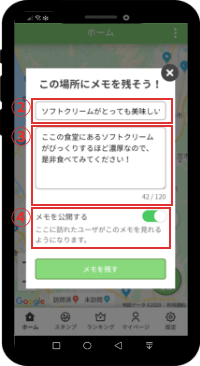
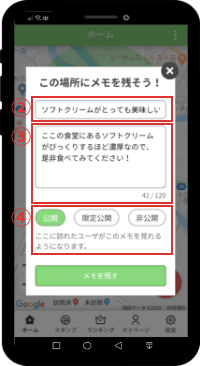
お知らせ追加

diff --git a/works/michimegu/js/news.js b/works/michimegu/js/news.js
@@ -5,16 +5,22 @@ $(function () {
     'event': 'イベント',
   }
   const newsList = {
+    202020405: {
+      date: '2020.04.05',
+      genre: 'update',
+      title: '【ver1.5.0】フレンド機能が追加されました。',
+      url: ''
+    },
     202020329: {
       date: '2020.03.29',
-      genre: 'news',
-      title: '<a href="./functions/trophy/">トロフィー</a>が追加されました。',
+      genre: 'update',
+      title: '【ver1.4.0】<a href="./functions/trophy/">トロフィー</a>が追加されました。',
       url: ''
     },
     202020324: {
       date: '2020.03.24',
-      genre: 'news',
-      title: '<a href="./functions/local-memo/">道の駅にメモを残せる「ローカルメモ」機能</a>が追加されました。',
+      genre: 'update',
+      title: '【ver1.3.0】<a href="./functions/local-memo/">道の駅にメモを残せる「ローカルメモ」機能</a>が追加されました。',
       url: ''
     }
   }

diff --git a/works/michimegu/functions/local-memo/index.html b/works/michimegu/functions/local-memo/index.html
@@ -69,10 +69,7 @@
               ./img/how-to-write02@2x.png 2x" alt="メモの記録方法2">
             </div>
             <div class="description">
-              <p>訪れたときの思い出や、ここで知り得た情報を書き込みます。画面の説明は以下のとおりです。
-                <br>②：記事のタイトル
-                <br>③：記事の本文
-                <br>④：記事を公開するかどうか
+              <p>訪れたときの思い出や、ここで知り得た情報を書き込みます。②に記事のタイトル、③に記事の本文を記述し、④で記事の公開範囲を選択します。
                 <br>※非公開の場合はマップに表示されません。
                 <br>※記事はあとから削除することができますが、一度書いた文章をあとから修正することはできません。</p>
             </div>
